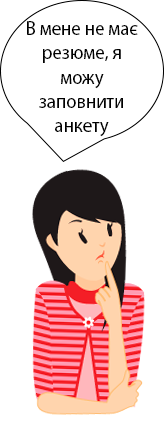
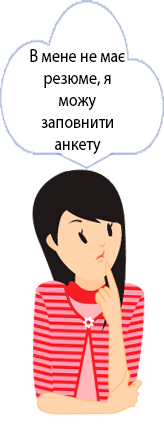
adding-change-0.4.2
Change image girl.
Added google map.

diff --git a/script.js b/script.js
@@ -8,3 +8,18 @@ $(document).ready(function(){
       $('.img-feedback-2').show();
     });
 });
+
+function myMap() {
+  var myCenter = new google.maps.LatLng(49.2674, 28.50149327);
+  var mapCanvas = document.getElementById("map");
+  var mapOptions = {center: myCenter, zoom: 15};
+  var map = new google.maps.Map(mapCanvas, mapOptions);
+  var marker = new google.maps.Marker({position:myCenter});
+  marker.setMap(map);
+
+  // Zoom to 9 when clicking on marker
+  google.maps.event.addListener(marker,'click',function() {
+    map.setZoom(17);
+    map.setCenter(marker.getPosition());
+  });
+}

diff --git a/index.html b/index.html
@@ -456,6 +456,7 @@
                 </div>
             </div>
         </section>
+        <div id="map" style="width:100%;height:500px;"></div>
         <footer class="text-right">
           <div class="row">
             <div class="col-sm-2 col-sm-offset-8">
@@ -593,6 +594,7 @@
         </div>
 
     </div>
+    <script src="https://maps.googleapis.com/maps/api/js?key=AIzaSyBeF6D9JIKOLW2tExnxlVv7qzKlcqPIIRU&callback=myMap"></script>
 </body>
 
 </html>
